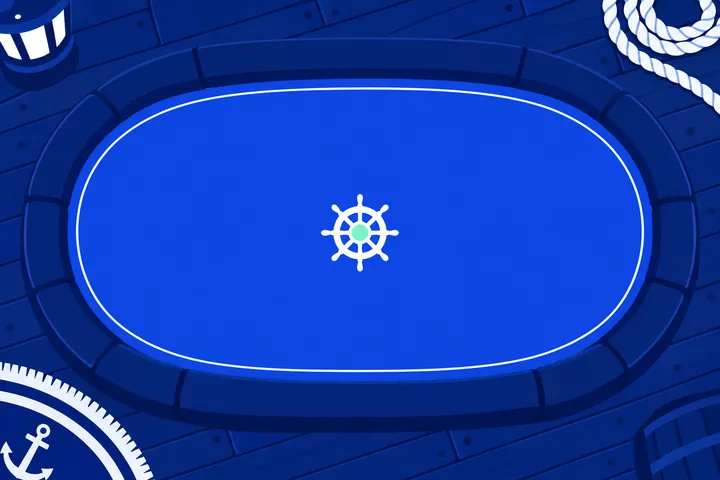
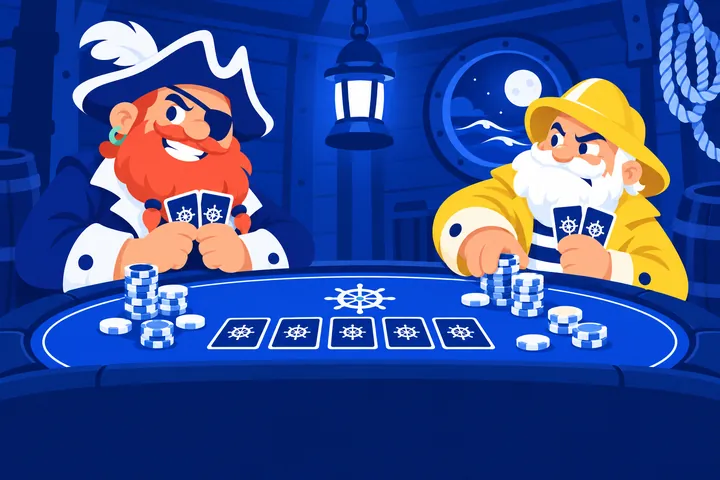
feat(home): a scene for every game on its poster
Eleven posters showed an empty backdrop. Each game now has key art in
the family of Big Catch and Barbe-Rouge: its character or its object in
action (the duel, the dogs on the dock, Neptune and his orbs, the
octopus dealing, the crab throwing the dice, the submarine diving).
The sources are kept next to the others and prepared by art/build.py.
The home page also said three machines; there are six.

diff --git a/web/lib/i18n.ts b/web/lib/i18n.ts
@@ -31,7 +31,7 @@ const DICT: Record<string, string> = {
   "La dotation ne compte pas tant qu'elle n'est pas misée ; ce que vos mises rapportent, si.": 'The grant does not count until it is played; what your bets bring in does.',
   "Sans compte, on s'entraîne": 'Without an account, you practise',
   'Tous les jeux en solo se jouent aussi hors classement, sur votre appareil, même hors ligne.': 'Every solo game can also be played unranked, on your device, even offline.',
-  'Trois machines, chacune avec son univers, ses tours gratuits et ses bonus.': 'Three machines, each with its own world, free spins and bonuses.',
+  'Six machines, chacune avec son univers, ses tours gratuits et ses bonus.': 'Six machines, each with its own world, free spins and bonuses.',
   'En solo, contre la maison : une manche prend quelques secondes.': 'Solo, against the house: a round takes a few seconds.',
   "Une table commune, en classé : on s'y assoit avec un compte.": 'A shared table, ranked: you sit down with an account.',
   'La saison en cours': 'The current season', 'Le classement est une course : plus le score est haut, plus le bateau est loin.': 'The leaderboard is a race: the higher the score, the further the boat.',

diff --git a/web/components/Landing.tsx b/web/components/Landing.tsx
@@ -60,7 +60,7 @@ export default function Landing() {
         <div><b>3</b><h3>Sans compte, on s&apos;entraîne</h3><p>Tous les jeux en solo se jouent aussi hors classement, sur votre appareil, même hors ligne.</p></div>
       </section>
 
-      <Shelf title="Machines à sous" note="Trois machines, chacune avec son univers, ses tours gratuits et ses bonus." kind="slot" />
+      <Shelf title="Machines à sous" note="Six machines, chacune avec son univers, ses tours gratuits et ses bonus." kind="slot" />
       <Shelf title="Jeux de table" note="En solo, contre la maison : une manche prend quelques secondes." kind="table" />
       <Shelf title="En ligne, à plusieurs" note="Une table commune, en classé : on s'y assoit avec un compte." kind="online" />
 

diff --git a/art/build.py b/art/build.py
@@ -86,18 +86,13 @@ def brand() -> None:
 
 
 def covers() -> None:
-    """Les affiches de la page d'accueil : l'image d'ensemble de chaque machine, le décor
-    de chaque table."""
+    """Les affiches de la page d'accueil : une scène par jeu, avec son personnage ou son
+    objet en pleine action (reference.webp d'une machine, tables/reference pour une table)."""
     dest = OUT / "home"
     dest.mkdir(parents=True, exist_ok=True)
-    sources = {
-        "beard": ROOT / "beard" / "reference.webp", "bass": ROOT / "bass" / "reference.webp", "bounty": ROOT / "bounty" / "src" / "stage.png",
-        "blackjack": ROOT / "tables" / "src" / "blackjack-stage.png", "roulette": ROOT / "tables" / "src" / "roulette-stage.png",
-        "dice": ROOT / "tables" / "src" / "dice-stage.png", "mines": ROOT / "tables" / "src" / "mines-stage.png",
-        "crash": ROOT / "tables" / "src" / "crash-stage.png", "plinko": ROOT / "tables" / "src" / "plinko-stage.png",
-        "holdem": ROOT / "tables" / "src" / "poker-stage.png",
-        "neptune": ROOT / "neptune" / "src" / "stage.png", "reef": ROOT / "reef" / "src" / "stage.png", "dogs": ROOT / "dogs" / "src" / "stage.png",
-    }
+    tables = ROOT / "tables" / "reference"
+    sources = {name: ROOT / name / "reference.webp" for name in ["beard", "bass", "bounty", "neptune", "reef", "dogs"]}
+    sources |= {name: tables / f"{name}.webp" for name in ["blackjack", "roulette", "dice", "mines", "crash", "plinko", "holdem"]}
     for name, src in sources.items():
         if not src.exists():
             continue

diff --git a/README.md b/README.md
@@ -189,7 +189,7 @@ hors ligne on s'entraîne, et le libellé du solde le dit (« À miser » ou
 (logo, solde, menu) ; le compte, la langue, le son et la navigation sont dans le
 menu, et la scène vient juste dessous, suivie des réglages puis de « Remettre à
 10 000 » (ou « Demander une avance ») et du plein écran. L'accueil occupe toute
-la largeur de l'écran. Dans la navigation, chaque famille de jeux se replie sous
+la largeur de l'écran. Chaque jeu y a son affiche : une scène où son personnage ou son objet est en action (le duel de Mort ou Vif, la pieuvre qui distribue, le crabe qui lance les dés), préparée par `art/build.py`. Dans la navigation, chaque famille de jeux se replie sous
 son titre, et le choix est retenu.
 
 Sur la scène de chaque machine, une carte présente ses tours gratuits : le

diff --git a/.agents/skills/labops-art-direction/SKILL.md b/.agents/skills/labops-art-direction/SKILL.md
@@ -122,7 +122,9 @@ bets have brought in).
 
 The home page opens on one poster (the key art of a machine, darkened on the
 side that carries the headline), states the rule of the place in three short
-sentences, then shows the games by family as posters, and ends on the head of
+sentences, then shows the games by family as posters (each one a scene with the game's character or
+object in action, never an empty backdrop: `art/<game>/reference.webp`,
+`art/tables/reference/<game>.webp`), and ends on the head of
 the race. The leaderboard has its own page. On a phone the navigation folds
 behind a three-line button. On a computer a machine fits the screen without
 scrolling: when height is short, margins, subtitle and character shrink before
